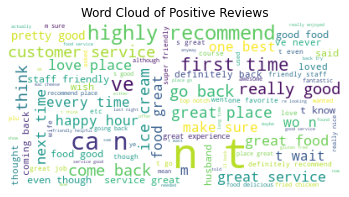
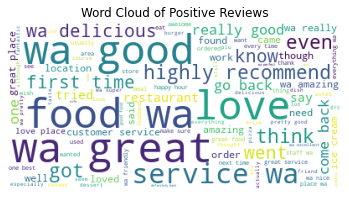
Moved files into main

diff --git a/README.md b/README.md
@@ -2,19 +2,17 @@
 
 > Author: Roberto Sanchez, Talent Path: D1 Group
 
-## Table of Contents
-
-[TOC]
-
 ## Overview
 
-This capstone project is centered around the data processing, elementary data analysis, and training of a model to predict user review sentiment.
+This capstone project is centered around the data processing, exploratory data analysis, and training of a model to predict sentiment on user reviews.
 
 ### Business Goals
 
-Create a model to be able to be used in generating sentiment on reviews or comments found in external / internal websites to give insights on how people about certain topics.
+Create a model to be able to be used in generating sentiment on reviews or comments found in external / internal websites to give insights on how people feel about certain topics.
 
 This could give the company insights not easily available on sites where ratings are required or for internal use to determine sentiment on blogs or comments.
+
+![End goal of the model](./resources/sentiment-analysis.png)
 
 ### Business Applications
 
@@ -33,42 +31,38 @@ By utilizing this model, the business can use it for the following purposes:
 
 Currently method to achieving this is by using outside resources which come at a cost and increases risk for leaking sensitive data to the public. This product will bypass these outside resources and give the company the ability to do it in house.
 
-## Model Deployment
+![](./resources/middleman.jpg)
 
-> Show demo of model
+## Model Deployment
 
 Link: [Review Analyzer](https://secure-bastion-71984.herokuapp.com/)
 
-Currently the Logistic Regression model is a viable candidate to be used in production for analyzing reviews of services or food. 
+After running multiple models and comparing accuracy, I found that the LinearSVC model is a viable candidate to be used in production for analyzing reviews of services or food. 
 
-### Classification Report:
-
-
-
-![Classification Report](./resources/2million_classificationReport_linReg.PNG)
-
-### Confusion Matrix:
-
-![Confusion Matrix](.\resources\confusionMatrix_logregress.PNG)
+### Classification Report / Confusion Matrix:
 
 
+
+![Classification Report](./resources/candidate_metrics.PNG)
 
 ## Technology Stack
 
-I'll be using these technologies for this project:
+I have been using these technologies for this project:
 
 * [Jupyter Notebook](https://jupyter.org/) - **Version 6.3.0**
   * Used for most of the data processing, EDA, and model training.
 * [Python](https://www.python.org/) - **Version 3.8.8**
   * The main language this project will be done in.
-* [Nvidia CUDA  Toolkit](https://developer.nvidia.com/cuda-toolkit) - **Version 11.2**
-  * To enable TensorFlow to utilize the GPU to speed up training.
 * [Scikit-learn](https://scikit-learn.org/stable/) - **Version 0.24**
-  * Utilizing metrics reports and certain models
+  * Utilizing metrics reports and certain models.
 * [Postgres](https://www.postgresql.org/) - **Version 13**
   * Main database application used to store this data.
 * [Flask](https://flask.palletsprojects.com/en/2.0.x/) - **Version 1.1.2**
   * Main backend technology to host a usable version of this project to the public.
+* [GitHub](https://github.com/)
+  * Versioning control and online documentation
+* [Heroku](https://dashboard.heroku.com/apps)
+  * Online cloud platform to host this application for public use
 
 
 
@@ -113,8 +107,8 @@ This stage I performed elementary data analysis where I analyze any null values,
 * Replace contractions with expanded versions
 * Lemmatized text
 * Removed special characters, dates, emails, and URLs
-* Removed stop_words
-* Remove non-English text
+* Removed stop words
+* Remove non-english text
 * Normalized text
 
 ## Exploratory Data Analysis
@@ -151,7 +145,7 @@ In order to produce a viable word cloud, I've had to process all of the text in 
 
 ![Created a word cloud from the positive words after cleaning](./resources/wordCloud_positive.png)
 
-As expected, words like "great", "amazing", "good", "love", and "best" came out on top.
+As expected, words like "delicious", "great", "good", "great place", and "recommend" came out on top.
 
 ![A word cloud showing all the words from the negative reviews](./resources/wordCloud_negative.png)
 
@@ -168,10 +162,13 @@ These four models were chosen to be trained with this data. Each of these models
 ### Model Training
 
 * Run a StratifiedKFold with a 5 fold split and analyze the average scores and classification reports
-  * Reasons for choosing 5 fold split
-  * Reasons for StratifiedKFold
+  * Get an average accuracy of the model for comparison
 * Create a single model to generate a confusion matrix
 * Test out model on a handful of examples
+
+Below is the average metrics after running 5 fold cross validation on LinearSVC
+
+![average metrics for linearSVC model](./resources/average_metrics.PNG)
 
 ## Testing Model
 
@@ -200,5 +197,5 @@ There are some improvements to be made such as the follow:
   * This can be seen in the confusion matrix for the candidate models and other models created that the predictions come out more positive than negative or neutral.
   * While having poor scores in the neutral category, the most important features are found in the negative and positive predictions for business applications.
 * **Hyper-parametrization improvement**
-  * Logistic Regression and Multinomial NB models produced models within a reasonable time frame while returning reasonable scores. Random Forrest Classifier and SVM took a **significant** amount of time to produce just one iteration. In order to produce results from this model StratifiedKFold was not used in these two models.
+  * Logistic Regression and Multinomial NB models produced models within a reasonable time frame while returning reasonable scores. Random Forrest Classifier and SVM took a **significant** amount of time to produce just one iteration. In order to produce results from this model StratifiedKFold was not used in these two models. Changing SVM to LinearSVC improved performance dramatically and replaced the SVM model and outperformed Logistic Regression which was the original candidate model.
 
